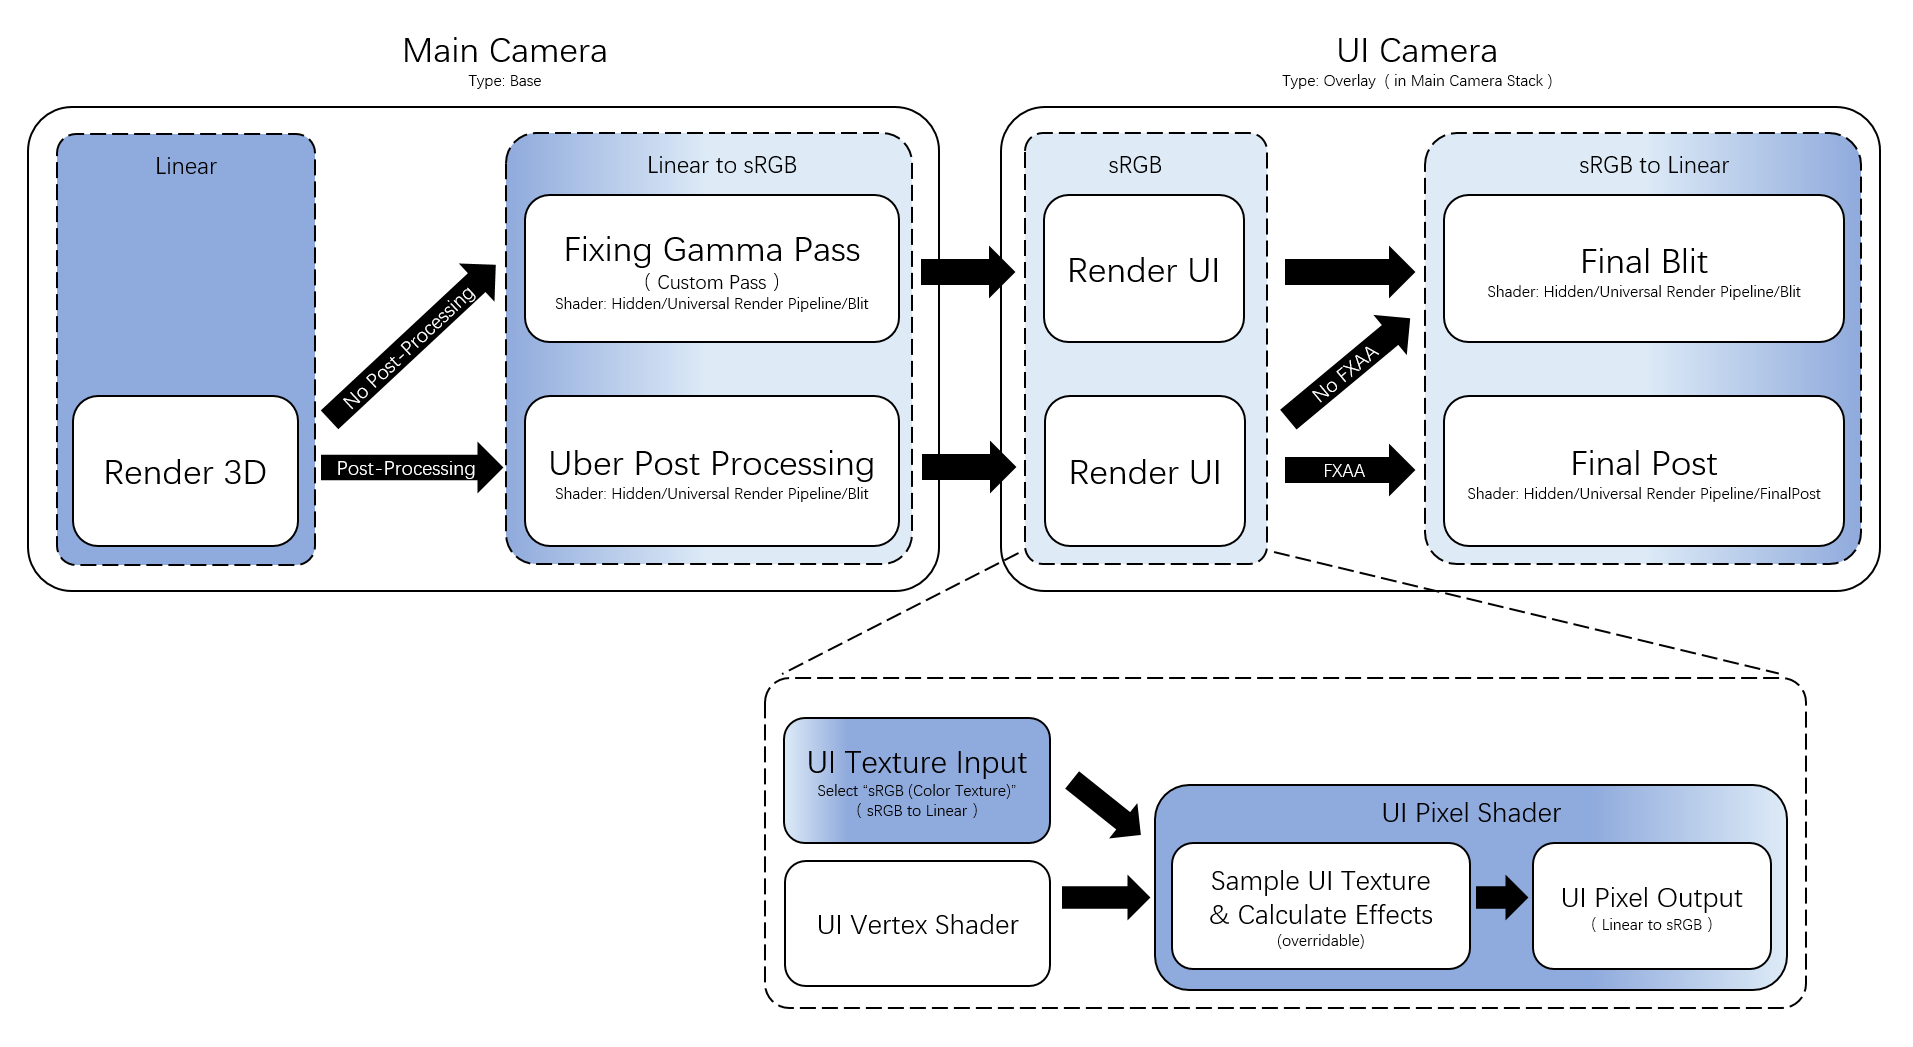
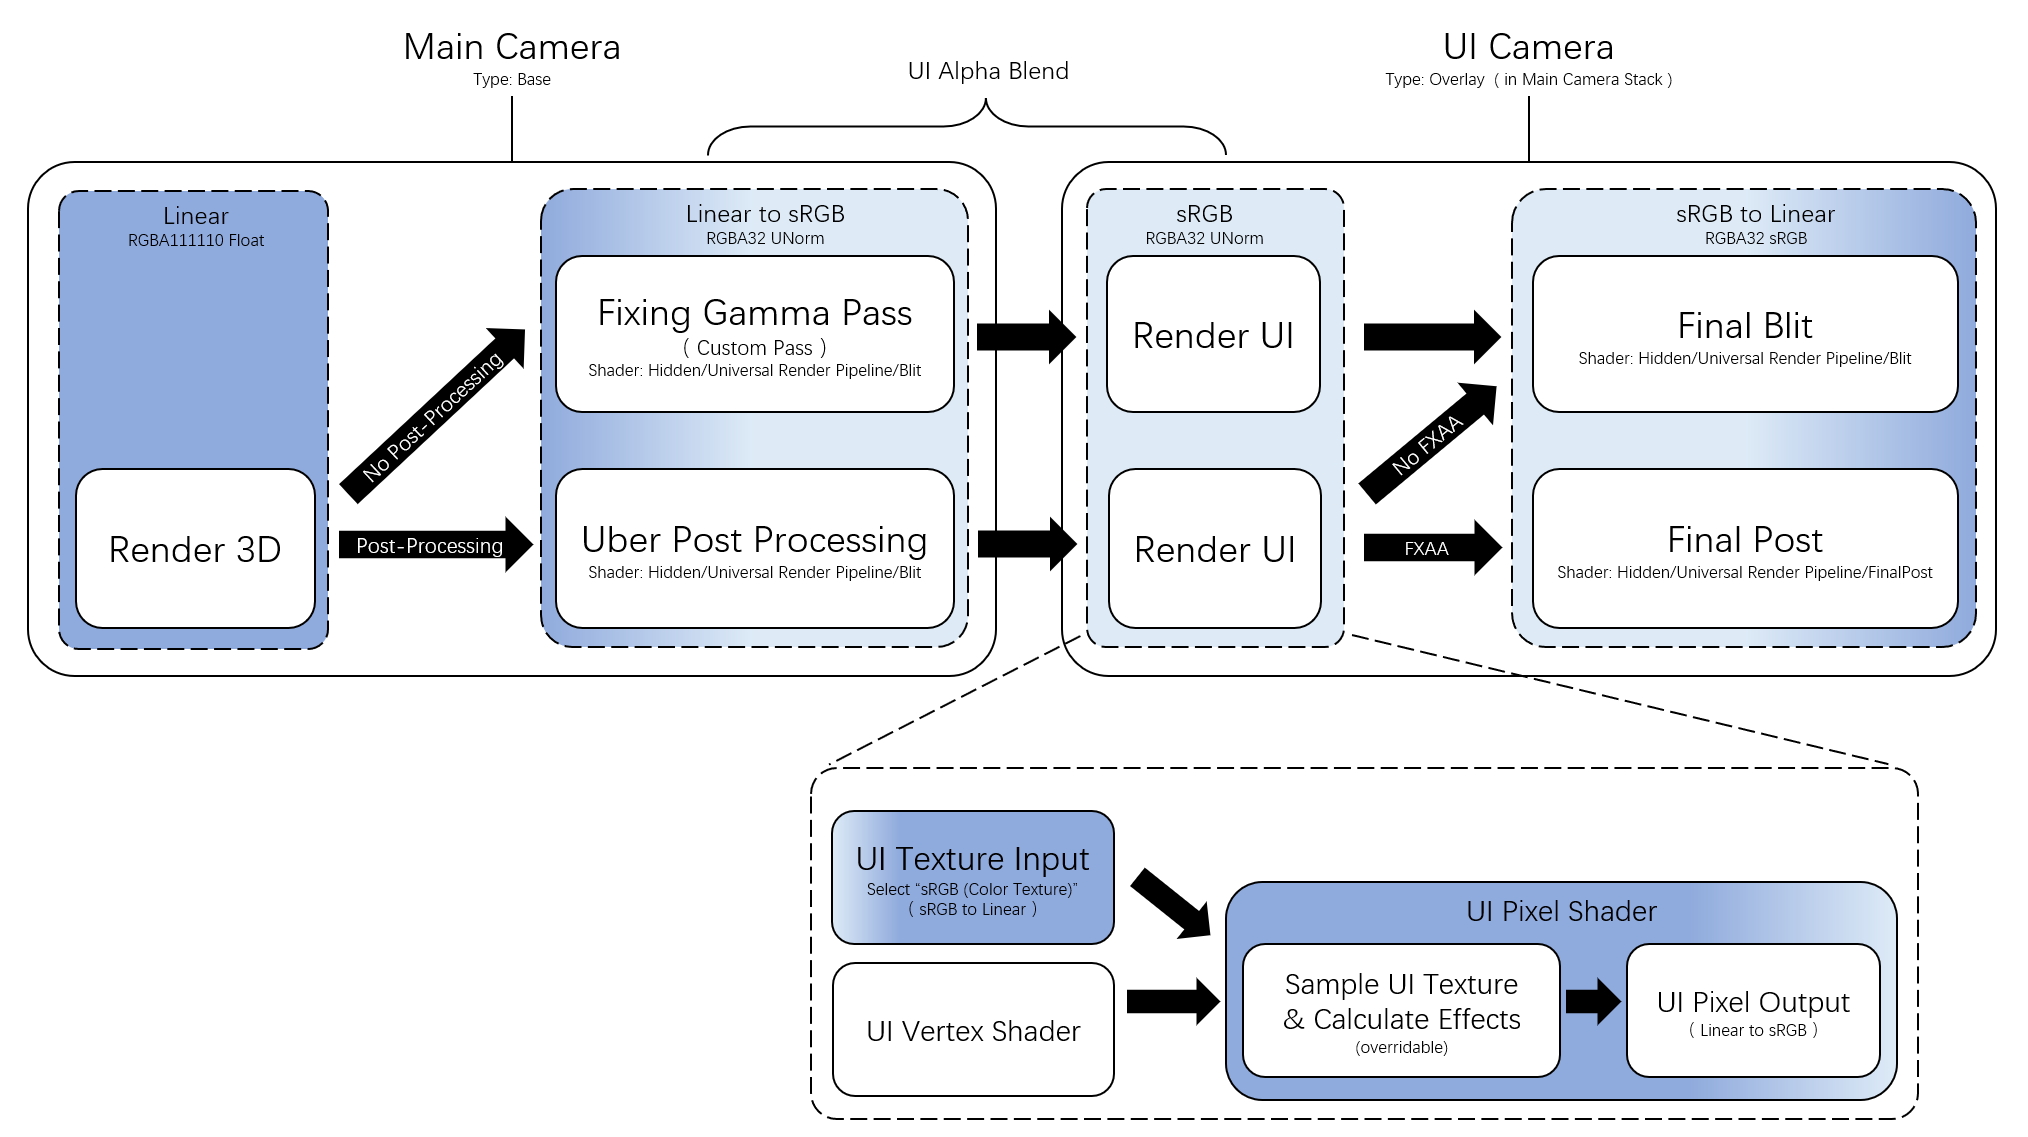
Update Readme

diff --git a/README.md b/README.md
@@ -37,4 +37,12 @@ Unity リニア の色空間にある UI 画像の透明さをなおす為に作
 * 修复 scene 视图 Reflection Probe 显示不正确;
 
 # Pipeline Flowchart
-![UI_RenderPipeline](./Readme/UI_RenderPipeline.png)
+![UI_RenderPipelineFlowChart](./Readme/UI_RenderPipelineFlowChart.png)![UI_RenderPipeline](./Readme/UI_RenderPipeline.png)
+
+## Why using *RGBA32 UNorm* for the UI Buffer
+When the final 3D render image is blit into the UI buffer, and transform to the Gamma Space, 
+we can compare the resolutions of Color Depth in different graphics format of the UI Buffer.
+Evidently the RGBA32 UNorm has the more details.  
+
+![UI_RenderPipeline](./Readme/ColorDepthComparison.png)
+
